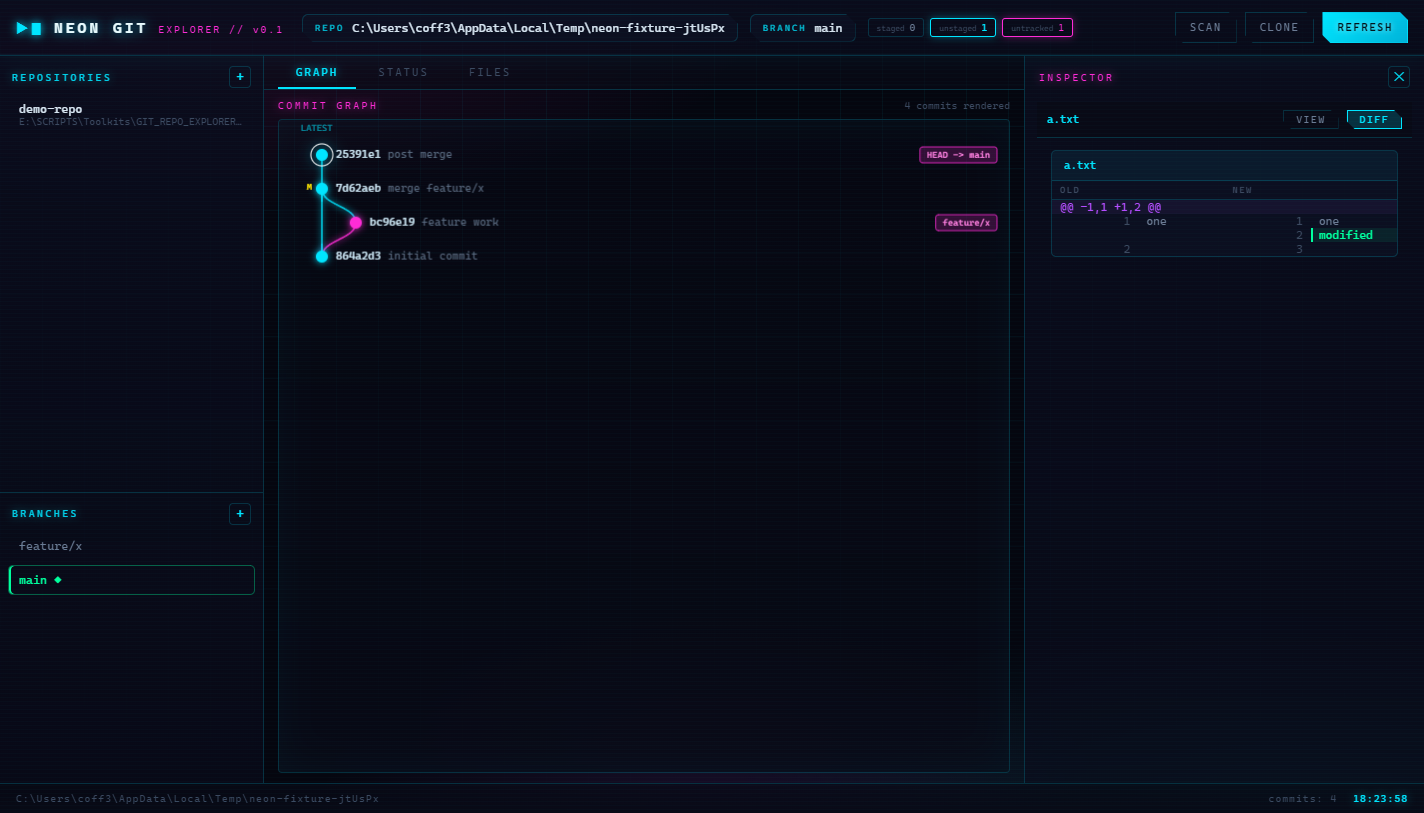
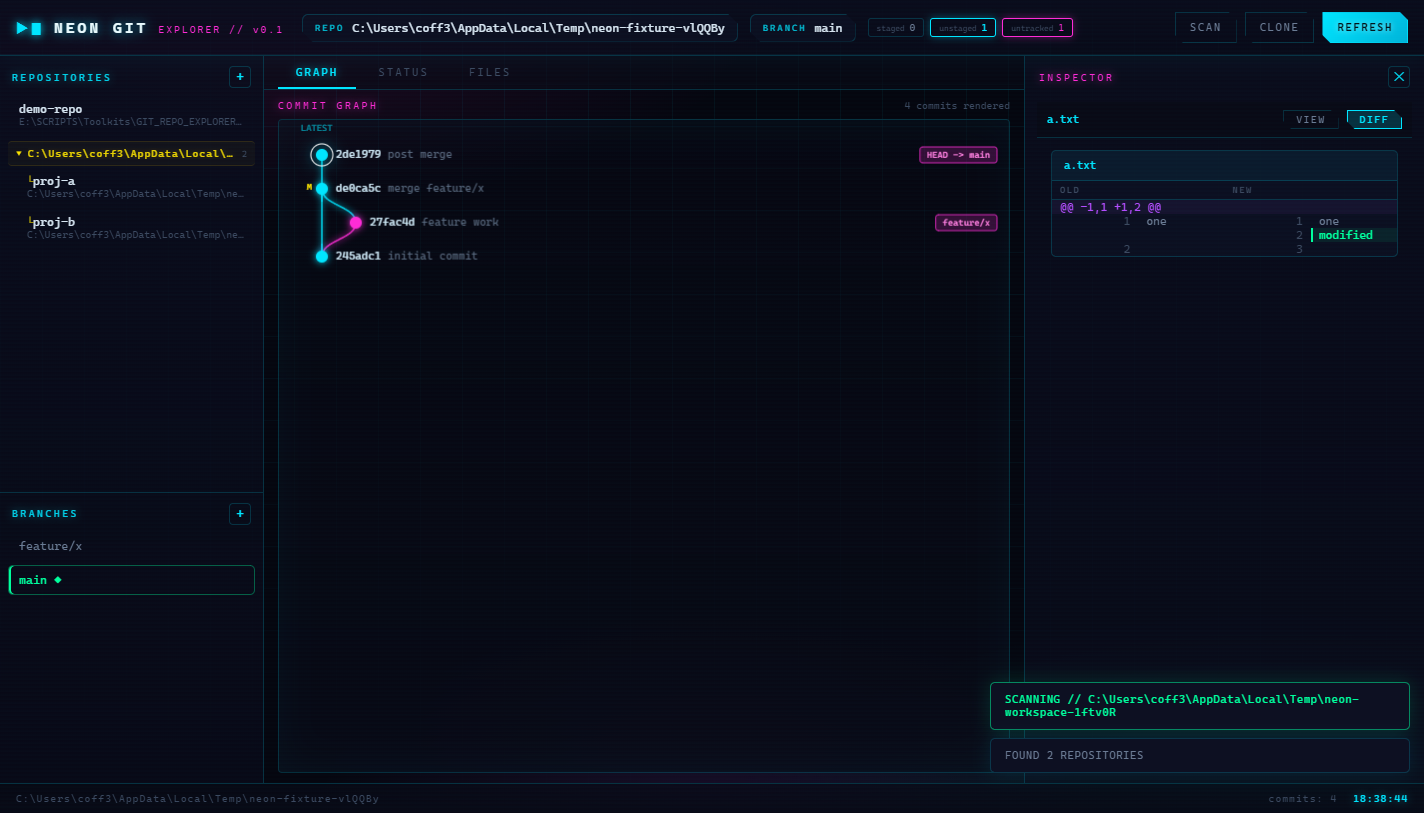
feat: add workspace management and enhance UI for nested repositories

diff --git a/src/renderer/js/app.js b/src/renderer/js/app.js
@@ -6,6 +6,7 @@
 
   const state = {
     repos: [],
+    workspaces: [],
     currentRepo: null,
     commits: [],
     currentHead: null,
@@ -41,6 +42,16 @@
   function saveRepos() {
     try {
       localStorage.setItem('neon.repos', JSON.stringify(state.repos.map((r) => r.path)));
+      localStorage.setItem(
+        'neon.workspaces',
+        JSON.stringify(
+          state.workspaces.map((w) => ({
+            root: w.root,
+            expanded: w.expanded,
+            repos: w.repos.map((r) => r.path),
+          }))
+        )
+      );
     } catch { /* ignore */ }
   }
 
@@ -56,26 +67,67 @@
         }
       } catch { /* skip */ }
     }
+    let saved = [];
+    try {
+      saved = JSON.parse(localStorage.getItem('neon.workspaces') || '[]');
+    } catch { saved = []; }
+    for (const w of saved) {
+      const repos = [];
+      for (const p of w.repos) {
+        try {
+          if (await api.isRepo(p)) {
+            repos.push({ path: p, name: p.split(/[\\/]/).pop(), parent: '' });
+          }
+        } catch { /* skip */ }
+      }
+      if (repos.length) {
+        state.workspaces.push({ root: w.root, expanded: w.expanded !== false, repos });
+      }
+    }
     renderRepoList();
-    if (state.repos.length) await openRepo(state.repos[0].path);
+    const first =
+      state.repos[0] || (state.workspaces[0] && state.workspaces[0].repos[0]);
+    if (first) await openRepo(first.path);
   }
 
   /* ---------------- repo list ---------------- */
+  function appendRepoItem(list, r, nested) {
+    const item = el('li', 'repo-item');
+    if (nested) item.classList.add('repo-item-nested');
+    item.innerHTML =
+      '<div class="repo-name"></div><div class="repo-path"></div>';
+    item.querySelector('.repo-name').textContent = r.name;
+    item.querySelector('.repo-path').textContent = r.path;
+    if (state.currentRepo && state.currentRepo.path === r.path) {
+      item.classList.add('is-active');
+    }
+    item.addEventListener('click', () => openRepo(r.path));
+    list.appendChild(item);
+  }
+
   function renderRepoList() {
     refs.repoList.innerHTML = '';
-    for (const r of state.repos) {
-      const item = el('li', 'repo-item');
-      item.innerHTML =
-        '<div class="repo-name"></div><div class="repo-path"></div>';
-      item.querySelector('.repo-name').textContent = r.name;
-      item.querySelector('.repo-path').textContent = r.path;
-      if (state.currentRepo && state.currentRepo.path === r.path) {
-        item.classList.add('is-active');
+    for (const r of state.repos) appendRepoItem(refs.repoList, r, false);
+    for (const w of state.workspaces) {
+      const head = el('li', 'repo-group');
+      head.innerHTML =
+        '<span class="repo-group-arrow"></span>' +
+        '<span class="repo-group-name"></span>' +
+        '<span class="repo-group-count"></span>';
+      head.querySelector('.repo-group-arrow').textContent = w.expanded ? '\u25BE' : '\u25B8';
+      head.querySelector('.repo-group-name').textContent = w.root;
+      head.querySelector('.repo-group-count').textContent = w.repos.length;
+      head.addEventListener('click', () => {
+        w.expanded = !w.expanded;
+        saveRepos();
+        renderRepoList();
+      });
+      refs.repoList.appendChild(head);
+      if (w.expanded) {
+        for (const r of w.repos) appendRepoItem(refs.repoList, r, true);
       }
-      item.addEventListener('click', () => openRepo(r.path));
-      refs.repoList.appendChild(item);
     }
-    if (!state.repos.length) {
+    if (!state.repos.length && !state.workspaces.length) {
       const empty = el('li', 'repo-item');
       empty.style.color = 'var(--text-faint)';
       empty.style.fontFamily = 'var(--mono)';
@@ -93,22 +145,45 @@
     }
   }
 
-  async function scanFolder() {
-    const dir = await api.pickFolder();
-    if (!dir) return;
+  async function scanWorkspace(dir) {
     toast('SCANNING // ' + dir, 'ok');
     try {
-      const found = await api.scan(dir, 3);
+      const found = await api.scan(dir, 4);
       if (!found.length) {
         toast('NO REPOSITORIES FOUND IN ' + dir, 'err');
-        return;
+        return [];
       }
-      for (const r of found) addRepo(r);
-      toast('FOUND ' + found.length + ' REPOSITOR' + (found.length > 1 ? 'IES' : 'Y'));
+      const repos = found.map((r) => ({
+        path: r.path,
+        name: r.name,
+        parent: r.parent,
+      }));
+      const ws = state.workspaces.find((w) => w.root === dir);
+      if (ws) {
+        ws.repos = repos;
+        ws.expanded = true;
+      } else {
+        state.workspaces.push({ root: dir, expanded: true, repos });
+      }
+      saveRepos();
+      renderRepoList();
+      toast(
+        'FOUND ' +
+          found.length +
+          ' REPOSITOR' +
+          (found.length > 1 ? 'IES' : 'Y')
+      );
       if (!state.currentRepo) await openRepo(found[0].path);
+      return found;
     } catch (err) {
       toast('SCAN FAILED: ' + err.message, 'err');
     }
+  }
+
+  async function scanFolder() {
+    const dir = await api.pickFolder();
+    if (!dir) return;
+    await scanWorkspace(dir);
   }
 
   async function addRepoDirect() {
@@ -673,7 +748,7 @@
     setTimeout(() => {
       refs.bootVeil.style.display = 'none';
     }, 500);
-    window.__neon = { openRepo, refresh, state, appReady };
+    window.__neon = { openRepo, refresh, state, appReady, scanWorkspace };
   }
 
   function appReady() {

diff --git a/src/main/index.js b/src/main/index.js
@@ -250,6 +250,30 @@ function createWindow() {
           const fileDiffToggleCount = await win.webContents.executeJavaScript(
             'document.querySelectorAll("#inspectorBody .diff-file").length'
           );
+
+          const wsRoot = fs.mkdtempSync(path.join(os.tmpdir(), 'neon-workspace-'));
+          fs.mkdirSync(path.join(wsRoot, 'proj-a', 'inner'), { recursive: true });
+          fs.mkdirSync(path.join(wsRoot, 'proj-b'), { recursive: true });
+          for (const p of ['proj-a', 'proj-b']) {
+            const sub = path.join(wsRoot, p);
+            sh(['init', '-b', 'main'], sub);
+            sh(['config', 'user.email', 'smoke@neon.dev'], sub);
+            sh(['config', 'user.name', 'Smoke Test'], sub);
+            commit('x.txt', 'x\n', 'init', sub);
+          }
+          const scanResult = await win.webContents.executeJavaScript(
+            '(async function(){var found=await window.__neon.scanWorkspace(' + JSON.stringify(wsRoot) + ');return JSON.stringify(found.map(function(r){return r.name;}));})()'
+          );
+          const repoGroupCount = await win.webContents.executeJavaScript(
+            'document.querySelectorAll(".repo-group").length'
+          );
+          const nestedRepoCount = await win.webContents.executeJavaScript(
+            'document.querySelectorAll(".repo-item-nested").length'
+          );
+          const wsRootShown = await win.webContents.executeJavaScript(
+            'document.querySelector(".repo-group-name") ? document.querySelector(".repo-group-name").textContent === ' + JSON.stringify(wsRoot) + ' : false'
+          );
+          fs.rmSync(wsRoot, { recursive: true, force: true });
           await win.webContents.executeJavaScript(
             'document.querySelectorAll(".tab")[0].click()'
           );
@@ -291,6 +315,8 @@ function createWindow() {
             ' leds=' + JSON.stringify(leds) + ' pixels=' + pixels +
             ' status=' + JSON.stringify(statusStats) + ' fileRows=' + fileRows +
             ' tree=' + fileTreeCount + ' files=' + fileViewCount + ' diffToggle=' + fileDiffToggleCount +
+            ' scan=' + JSON.stringify(scanResult) + ' groups=' + repoGroupCount + ' nested=' + nestedRepoCount +
+            ' wsRootShown=' + wsRootShown +
             ' dbg=' + JSON.stringify(dbg) + ' toasts=' + JSON.stringify(toasts));
 
           fs.rmSync(fixture, { recursive: true, force: true });
@@ -304,6 +330,10 @@ function createWindow() {
             fileTreeCount >= 1 &&
             fileViewCount >= 1 &&
             fileDiffToggleCount >= 1 &&
+            repoGroupCount >= 1 &&
+            nestedRepoCount >= 2 &&
+            wsRootShown === true &&
+            JSON.parse(scanResult).length >= 2 &&
             parseInt(canvasDims.split('x')[0], 10) > 500;
           if (!ok) throw new Error('renderer state mismatch');
           if (problems.length) {

diff --git a/src/renderer/styles/main.css b/src/renderer/styles/main.css
@@ -203,6 +203,38 @@ html, body {
 }
 .repo-item.is-active .repo-name { color: #bff6ff; text-shadow: 0 0 8px rgba(0, 229, 255, 0.4); }
 
+.repo-group {
+  display: flex; align-items: center; gap: 6px;
+  padding: 6px 8px; margin: 6px 0 2px;
+  border-top: 1px solid rgba(255, 214, 0, 0.12);
+  border-bottom: 1px solid rgba(255, 214, 0, 0.12);
+  background: rgba(255, 214, 0, 0.03);
+  border-radius: 4px;
+  cursor: pointer; user-select: none;
+}
+.repo-group:hover { background: rgba(255, 214, 0, 0.07); }
+.repo-group-arrow {
+  font-family: var(--mono); font-size: 10px; color: var(--amber);
+  flex: none;
+}
+.repo-group-name {
+  font-family: var(--mono); font-size: 10px; letter-spacing: 1px;
+  color: var(--amber); opacity: 0.9;
+  overflow: hidden; text-overflow: ellipsis; white-space: nowrap;
+  text-shadow: 0 0 6px rgba(255, 214, 0, 0.3);
+}
+.repo-group-count {
+  font-family: var(--mono); font-size: 9px; color: var(--text-faint);
+  flex: none;
+}
+.repo-item-nested {
+  padding: 5px 10px 5px 18px;
+}
+.repo-item-nested .repo-name::before {
+  content: '\2514 '; color: var(--amber); opacity: 0.6;
+  font-size: 10px;
+}
+
 .branch-item {
   font-family: var(--mono); font-size: 12px; color: var(--text-dim);
 }
